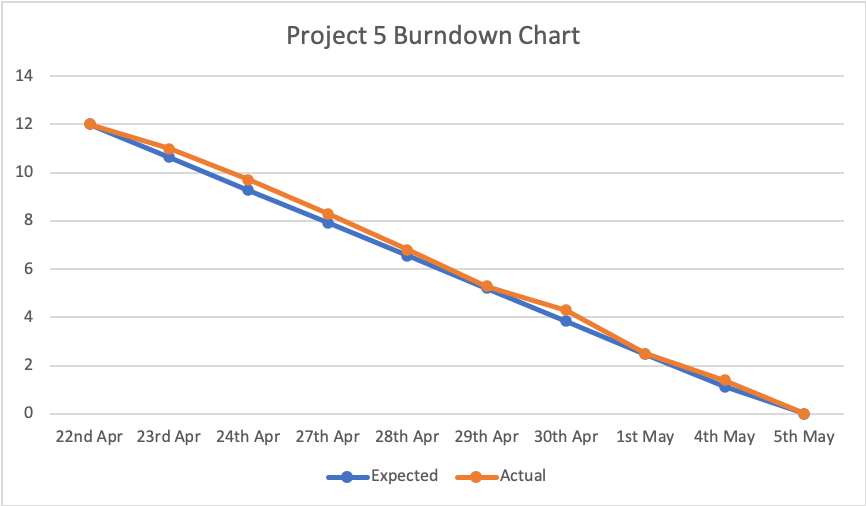
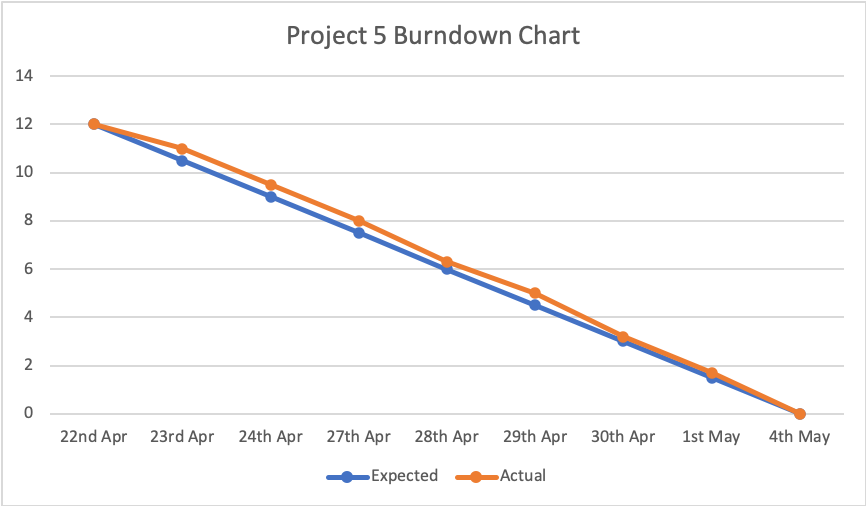
Updated burnDown chart and readme

Changed region(s): [[0.0624, 0.8004, 0.9665, 0.8893], [0.0935, 0.2372, 0.9042, 0.8004]]

diff --git a/Team_03/README.md b/Team_03/README.md
@@ -3,7 +3,7 @@
 
 This folder holds all the work that was accomplished in Project 5.<br />
 
-**Sprint Duration:** 04/22/2020 – 05/05/2020 <br />
+**Sprint Duration:** 04/22/2020 – 05/04/2020 <br />
 
 **Team:**
 - Chandan Yadav 
